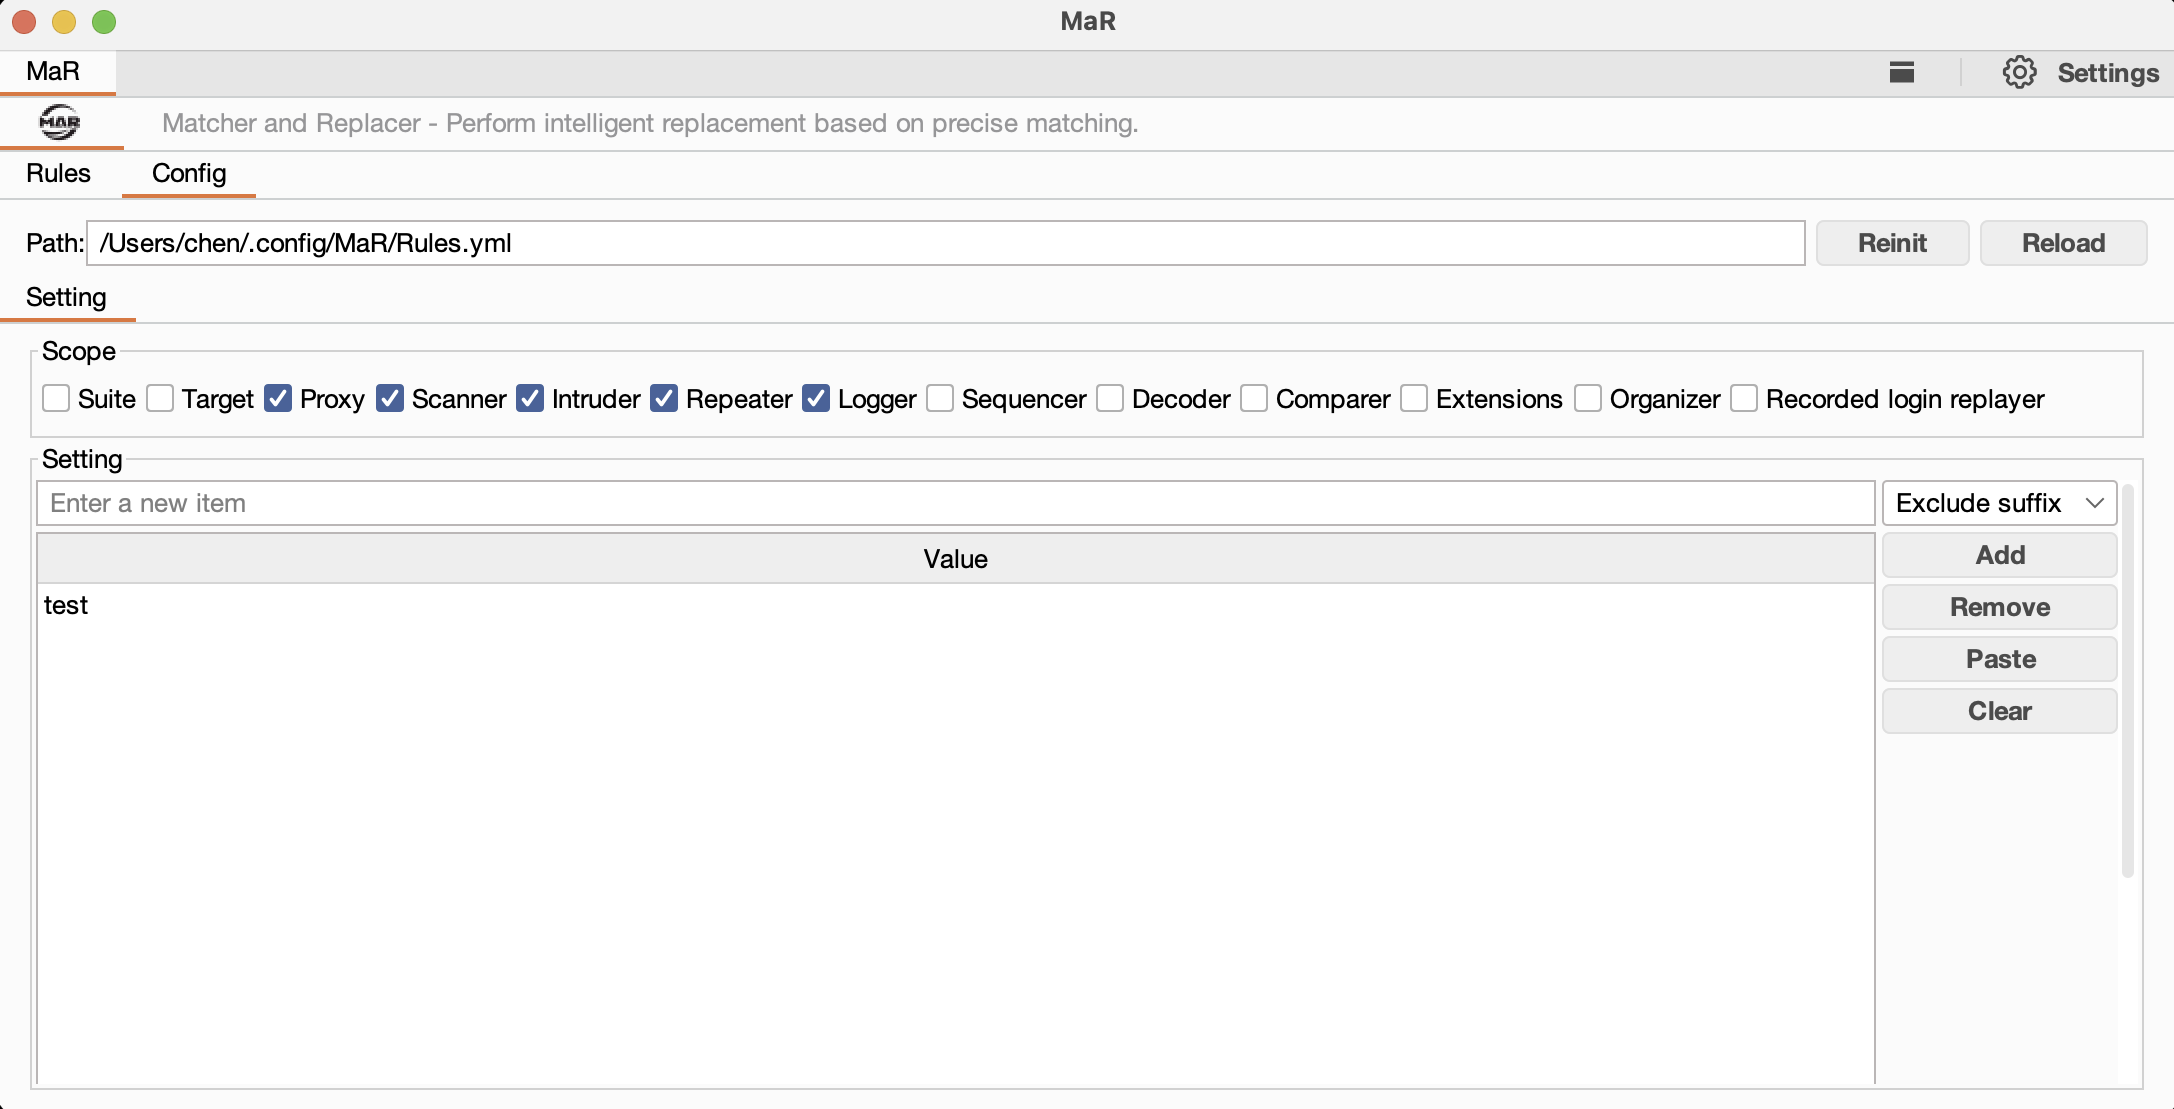
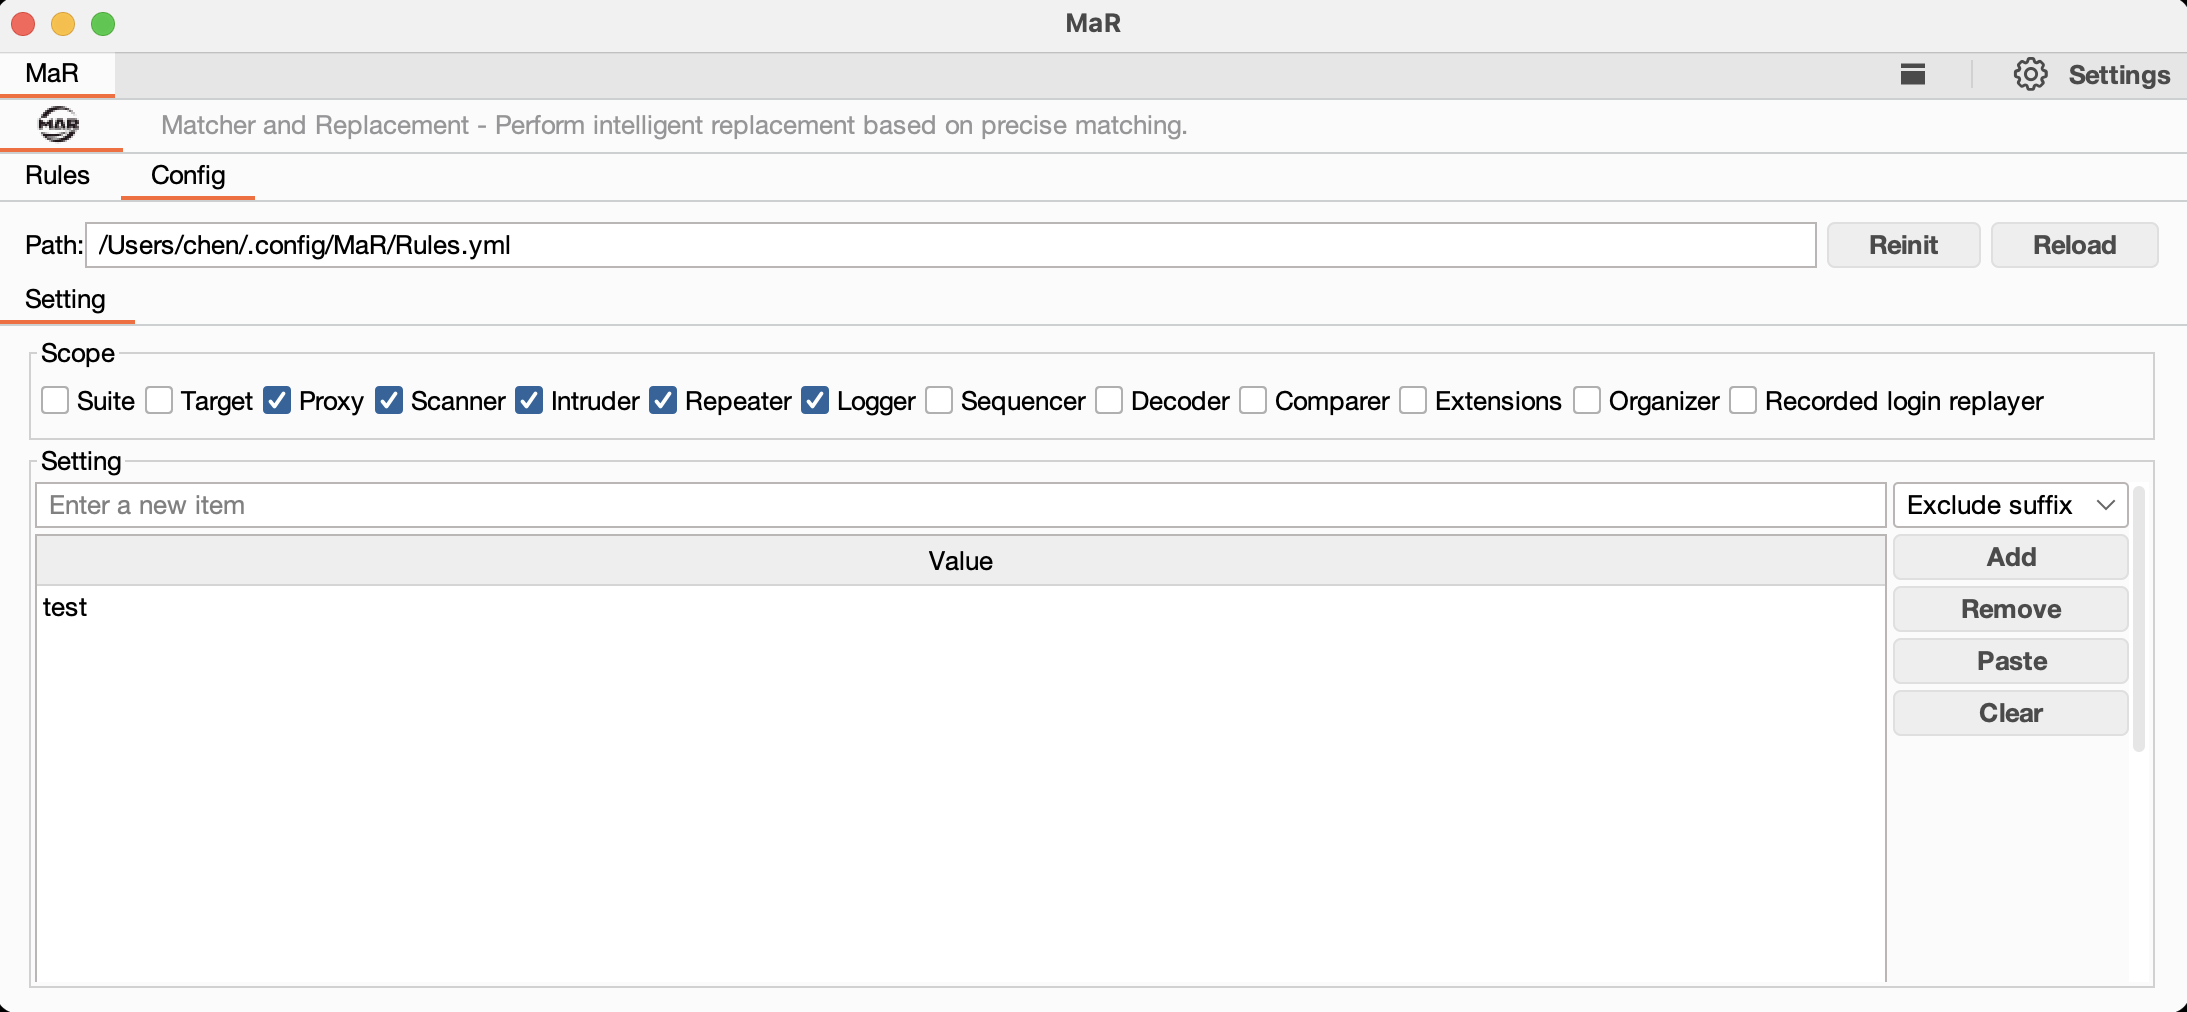
Update

diff --git a/README.md b/README.md
@@ -8,7 +8,7 @@ README Version: \[[English](README.md) | [简体中文](README_CN.md)\]
 
 ## Project Introduction
 
-**MaR** (Matcher and Replacer) is an auxiliary project in the field of cybersecurity (vulnerability research), primarily used for precise matching and intelligent replacement of HTTP protocol packets. It can automatically modify HTTP request or response content based on user-defined rules when specific conditions are met, helping security researchers achieve automated data tampering during penetration testing.
+**MaR** (Matcher and Replacement) is an auxiliary project in the field of cybersecurity (vulnerability research), primarily used for precise matching and intelligent replacement of HTTP protocol packets. It can automatically modify HTTP request or response content based on user-defined rules when specific conditions are met, helping security researchers achieve automated data tampering during penetration testing.
 
 The design concept of **MaR** originates from BurpSuite's native Match and Replace functionality, but provides more flexible and powerful rule configuration capabilities, supporting conditional matching, regular expressions, multiple scopes, and other advanced features.
 

diff --git a/README_CN.md b/README_CN.md
@@ -8,7 +8,7 @@ README 版本: \[[English](README.md) | [简体中文](README_CN.md)\]
 
 ## 项目介绍
 
-**MaR**（Matcher and Replacer）是一款网络安全（漏洞挖掘）领域下的辅助型项目，主要用于对HTTP协议报文进行精准匹配和智能替换。它可以根据用户定义的规则，在满足特定条件时自动修改HTTP请求或响应内容，帮助安全研究人员在渗透测试过程中实现自动化的数据篡改。
+**MaR**（Matcher and Replacement）是一款网络安全（漏洞挖掘）领域下的辅助型项目，主要用于对HTTP协议报文进行精准匹配和智能替换。它可以根据用户定义的规则，在满足特定条件时自动修改HTTP请求或响应内容，帮助安全研究人员在渗透测试过程中实现自动化的数据篡改。
 
 **MaR**的设计思想来源于BurpSuite原生的Match and Replace功能，但提供了更加灵活和强大的规则配置能力，支持条件匹配、正则表达式、多作用域等高级特性。
 
